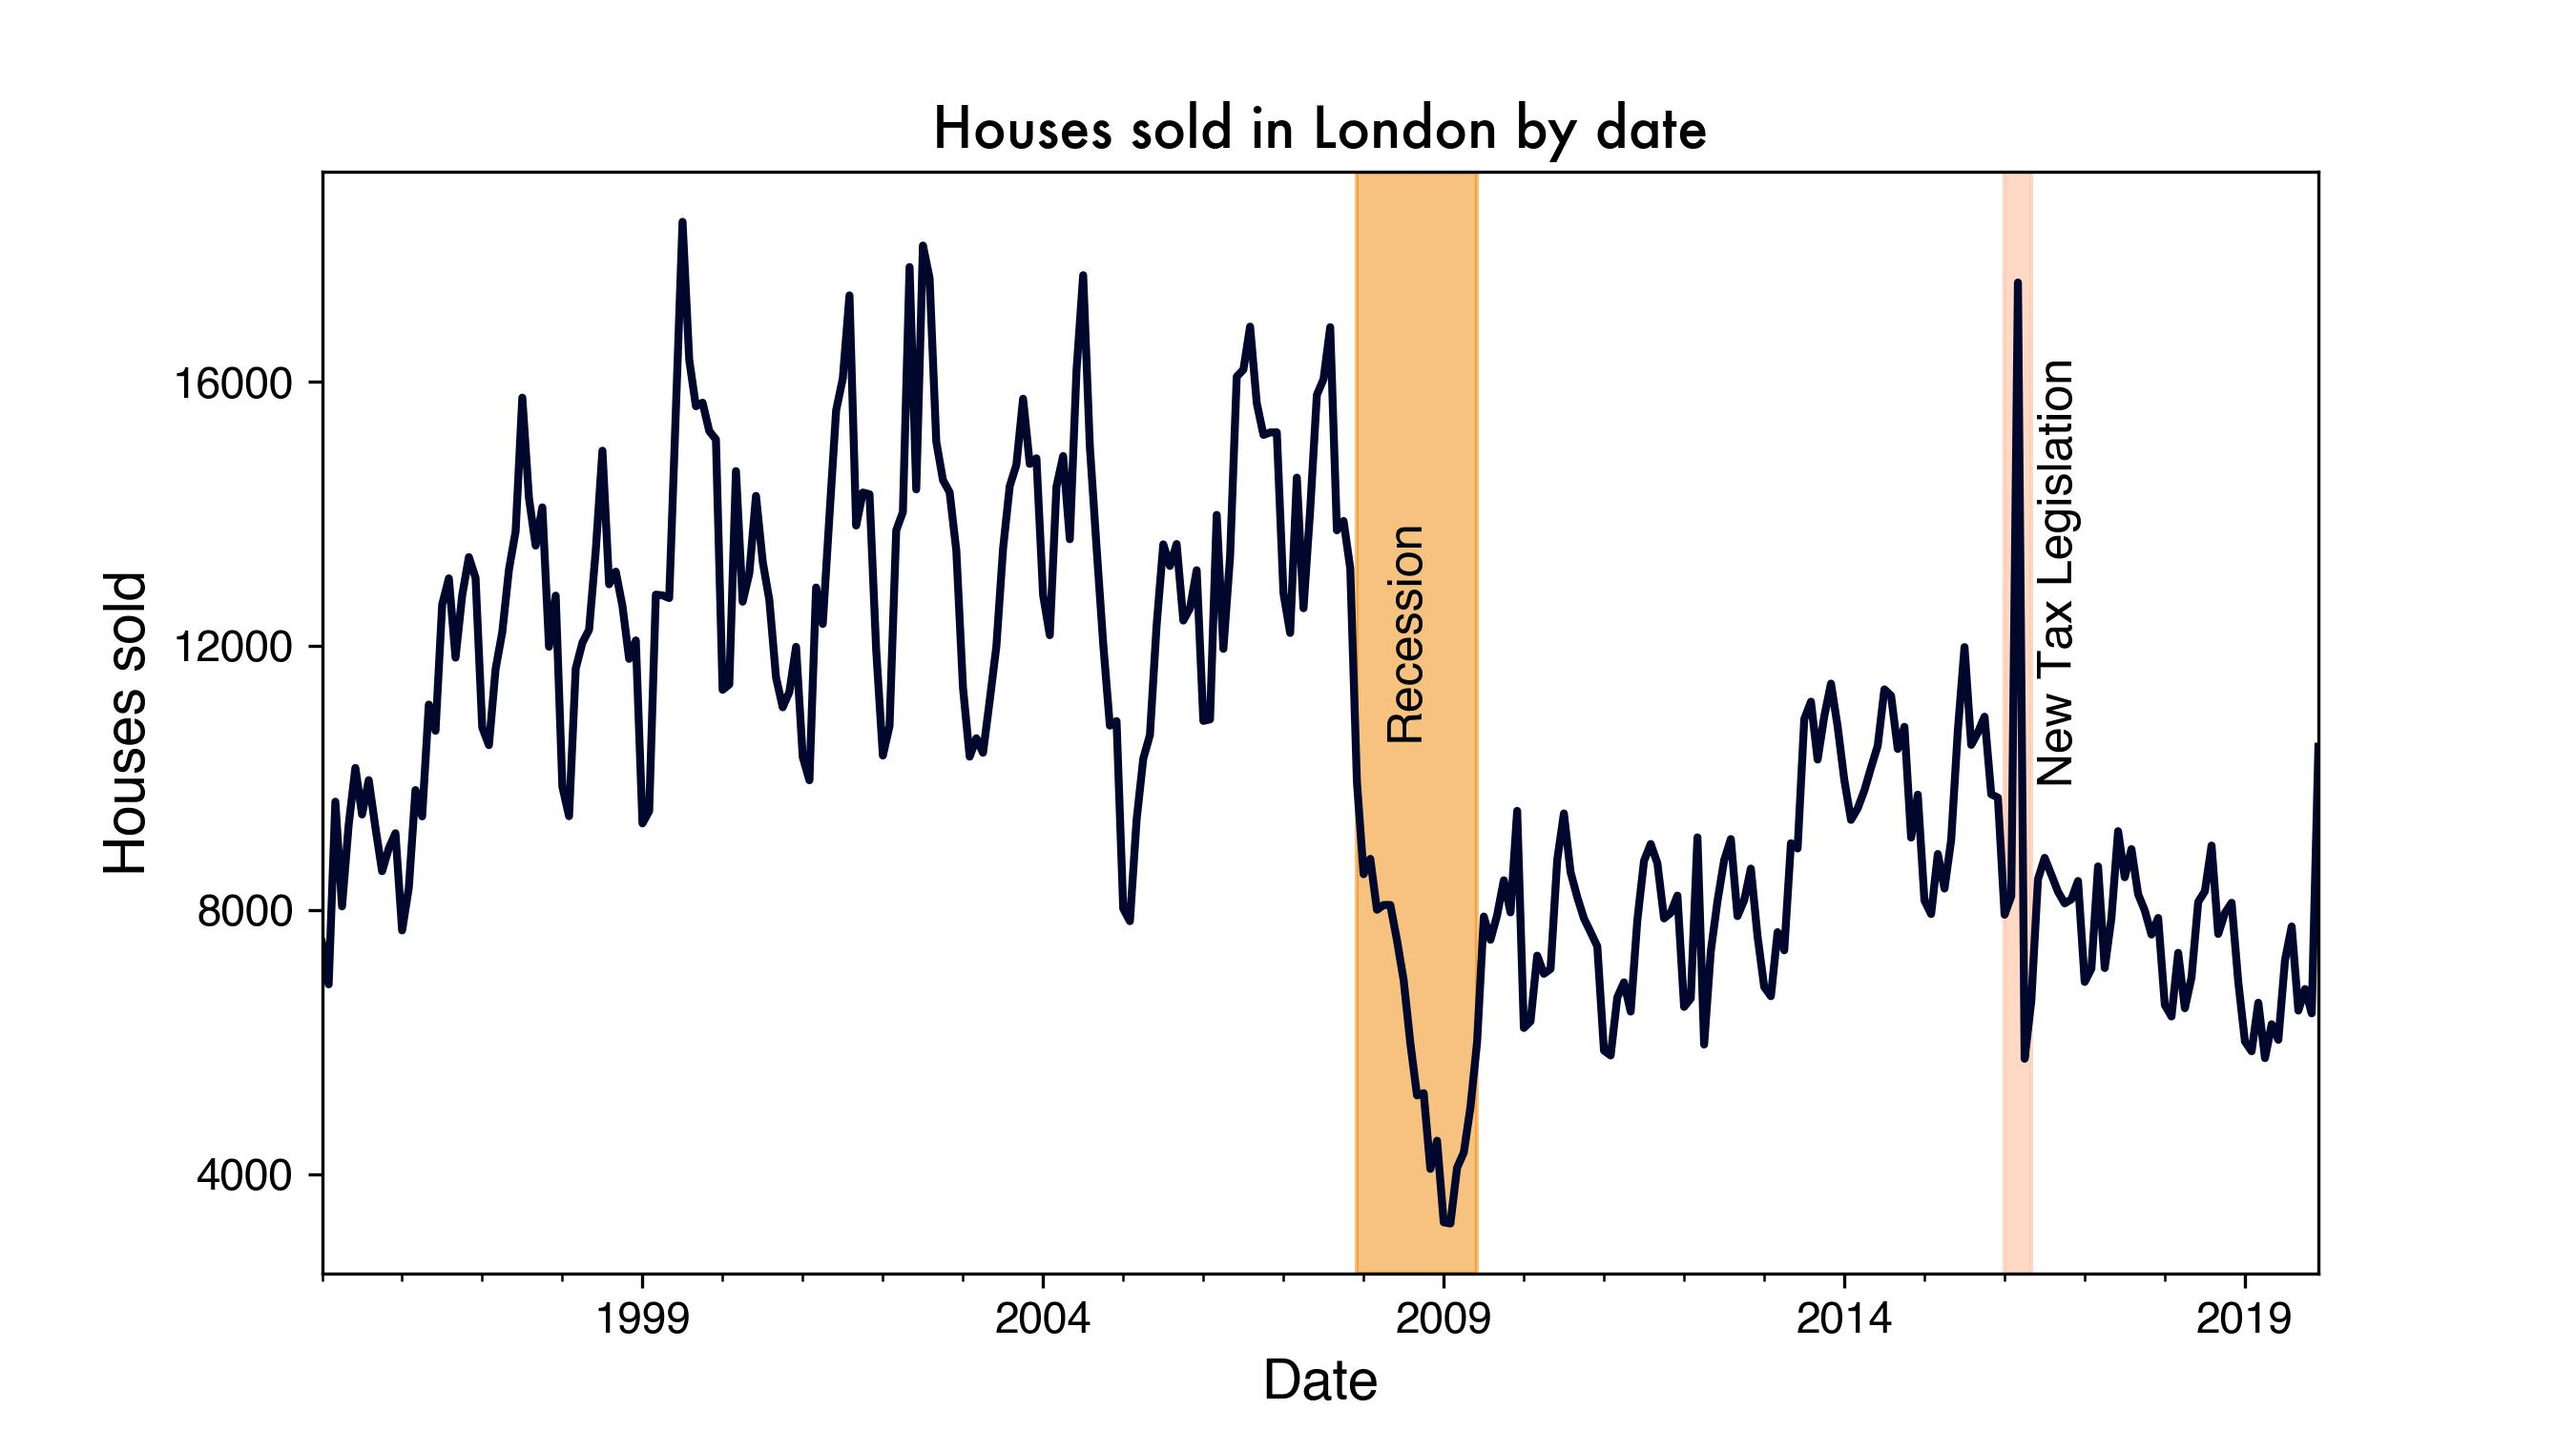
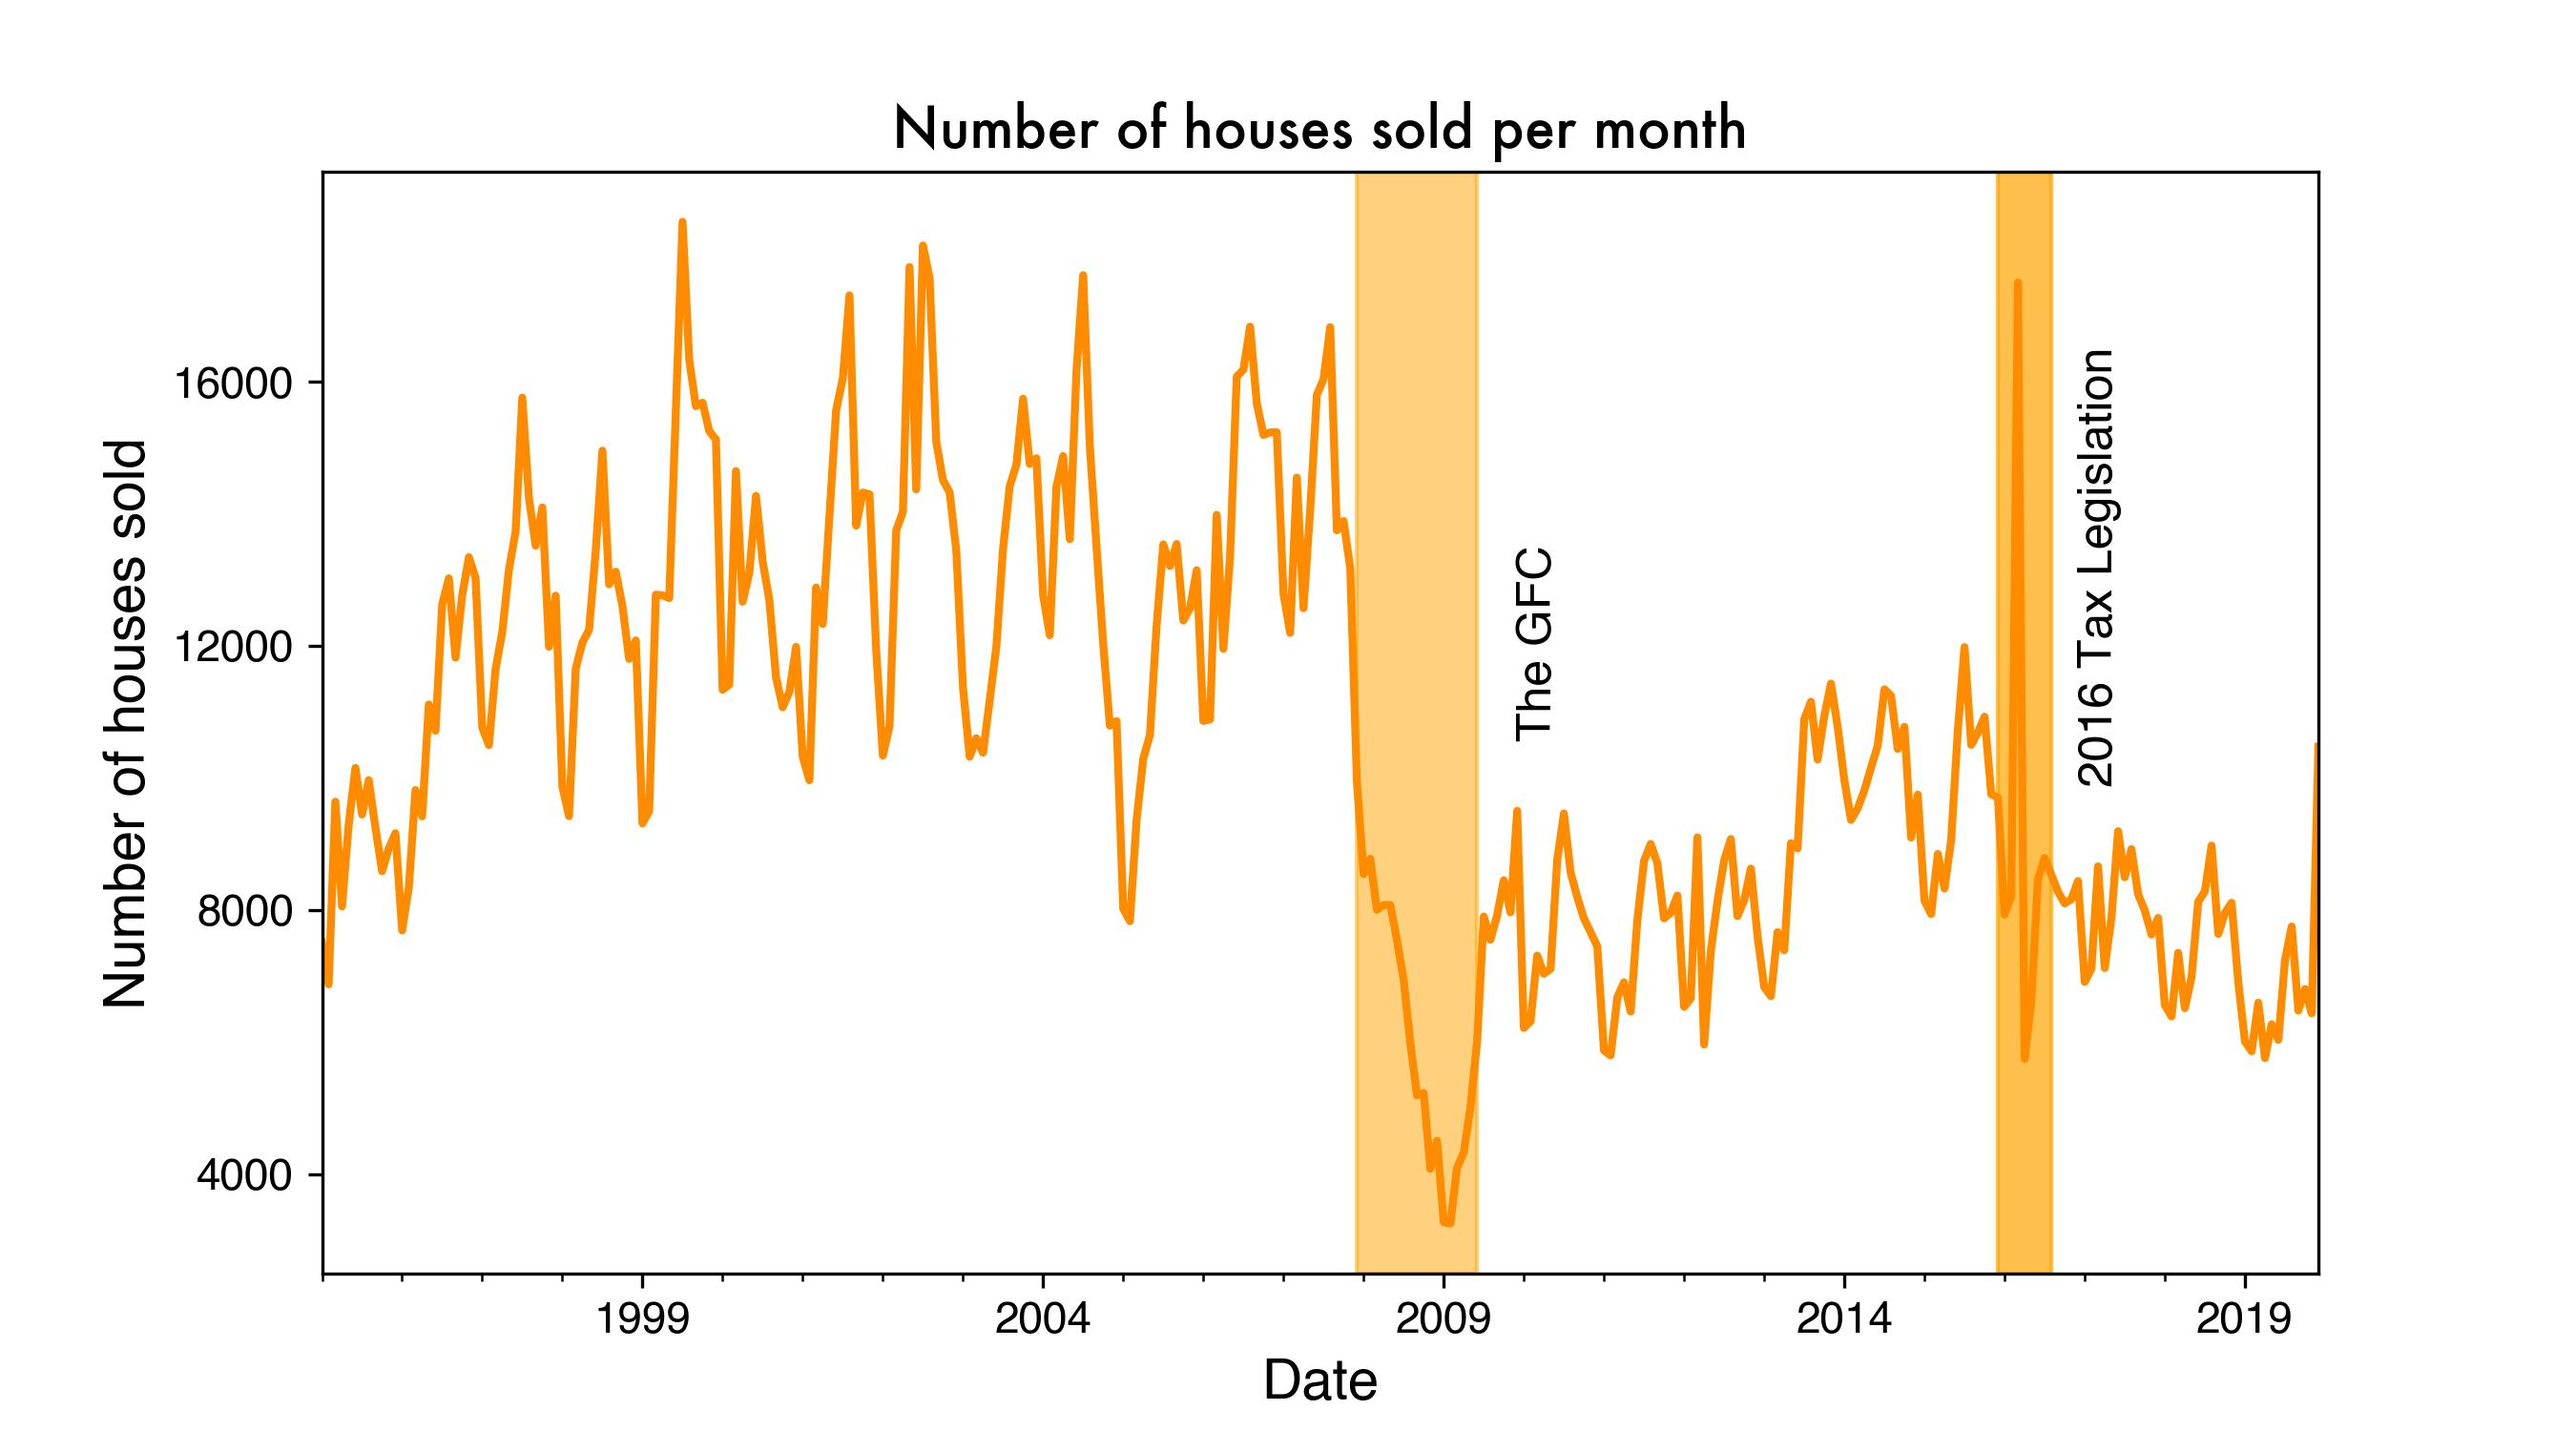
Minor changes

diff --git a/housing.py b/housing.py
@@ -205,17 +205,15 @@ plt.show
 # Let's see how the number of houses sold in London has changed over time 
 plt.figure(figsize = (10, 5))
 london_houses = london.groupby('date')['houses_sold'].sum()
-london_houses.plot(figsize = (9, 5), lw = 2, y = 'houses_sold', color = '#00072D')
-
-plt.axvspan('2007-12-21', '2009-06-21', alpha = 0.5, color = '#F08700')
-plt.text(x = '2008-04-01', y = 10700, s = 'Recession', rotation = 90, fontsize = font_size-2, **bodyfont)
-plt.axvspan('2016-01-1', '2016-05-01', alpha = 0.7, color = '#FFCAAF')
-plt.text(x = '2016-06-01', y = 10000, s = 'New Tax Legislation', rotation = 90, fontsize = font_size-2, **bodyfont)
-
-plt.title('Houses sold in London by date', size = font_size, **titlefont)
+london_houses.plot(figsize = (9, 5), lw = 2, y = 'houses_sold', color = 'darkorange')
+plt.axvspan('2007-12-21', '2009-06-21', alpha = 0.5, color = 'orange')
+plt.text(x = '2009-12-01', y = 10700, s = 'The GFC', rotation = 90, fontsize = font_size-2, **bodyfont)
+plt.axvspan('2015-12-15', '2016-08-01', alpha = 0.7, color = 'orange')
+plt.text(x = '2016-12-01', y = 10000, s = '2016 Tax Legislation ', rotation = 90, fontsize = font_size-2, **bodyfont)
+plt.title('Number of houses sold per month', size = font_size, **titlefont)
 plt.xlabel('Date', size = font_size, **bodyfont)
 plt.xticks(size = font_size - 3, **bodyfont)
-plt.ylabel('Houses sold', size = font_size, **bodyfont)
+plt.ylabel('Number of houses sold', size = font_size, **bodyfont)
 plt.yticks([4000, 8000, 12000, 16000], size = font_size - 3, **bodyfont)
 plt.savefig('houses_sold_lnd_date.jpg', dpi=300) 
 
@@ -257,9 +255,9 @@ london_map.head()
 
 fig, htmap = plt.subplots(1, 2, figsize = (15, 12))
 
-london_map.plot(ax = htmap[0], column = 'average_price', cmap = 'Oranges', edgecolor = 'maroon', legend = True, legend_kwds = {'label': 'Average Price', 'orientation' : 'horizontal'})
+london_map.plot(ax = htmap[0], column = 'average_price', cmap = 'Oranges', edgecolor = 'DarkOrange', legend = True, legend_kwds = {'label': 'Average Price', 'orientation' : 'horizontal'})
 
-london_map.plot(ax = htmap[1], column = 'houses_sold', cmap = 'Greens', edgecolor = 'maroon', legend = True, legend_kwds = {'label': 'Houses Sold', 'orientation' : 'horizontal'})
+london_map.plot(ax = htmap[1], column = 'houses_sold', cmap = 'Greens', edgecolor = 'DarkGreen', legend = True, legend_kwds = {'label': 'Houses Sold', 'orientation' : 'horizontal'})
 
 htmap[0].axis('off')
 htmap[0].set_title('Average House Price (All years)', size = font_size, **titlefont)
